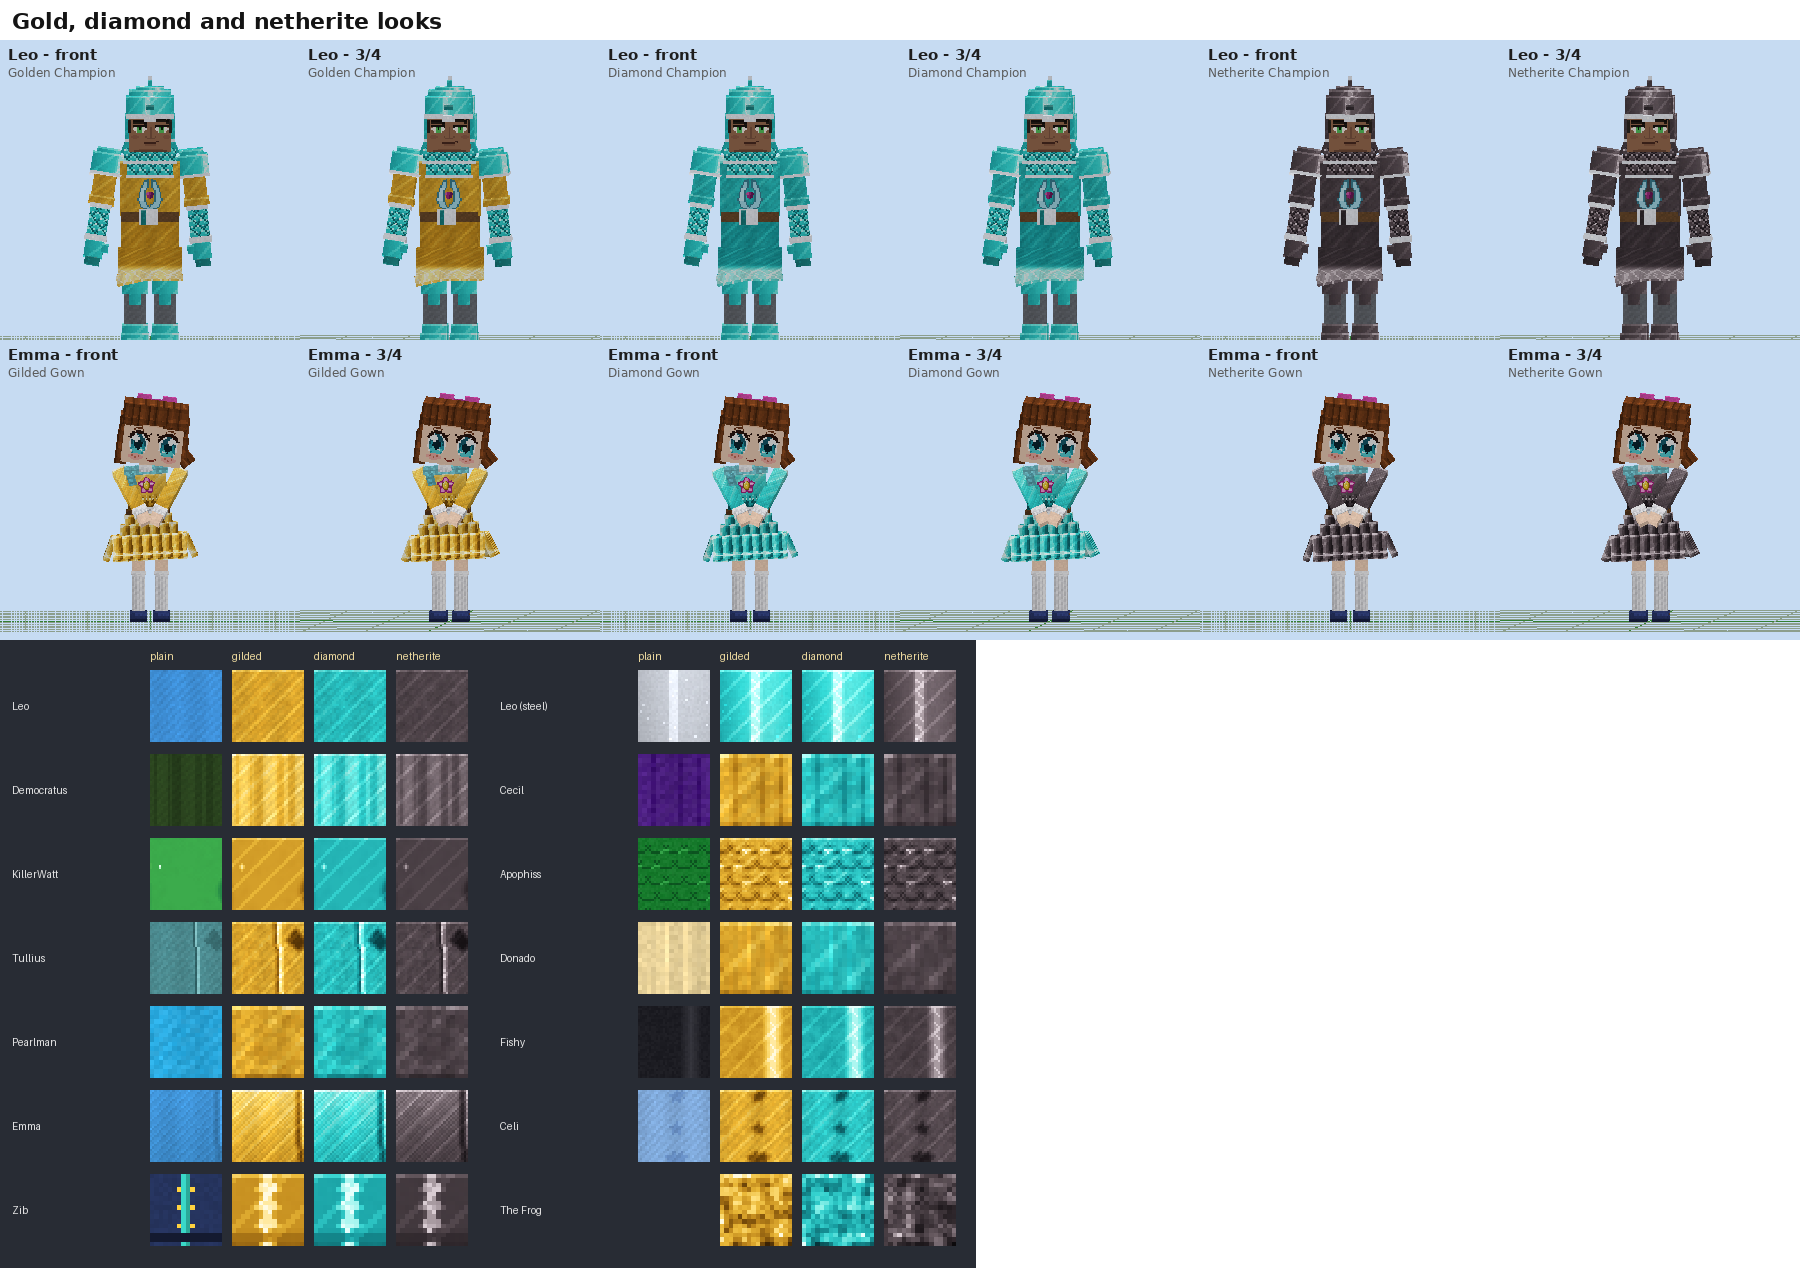
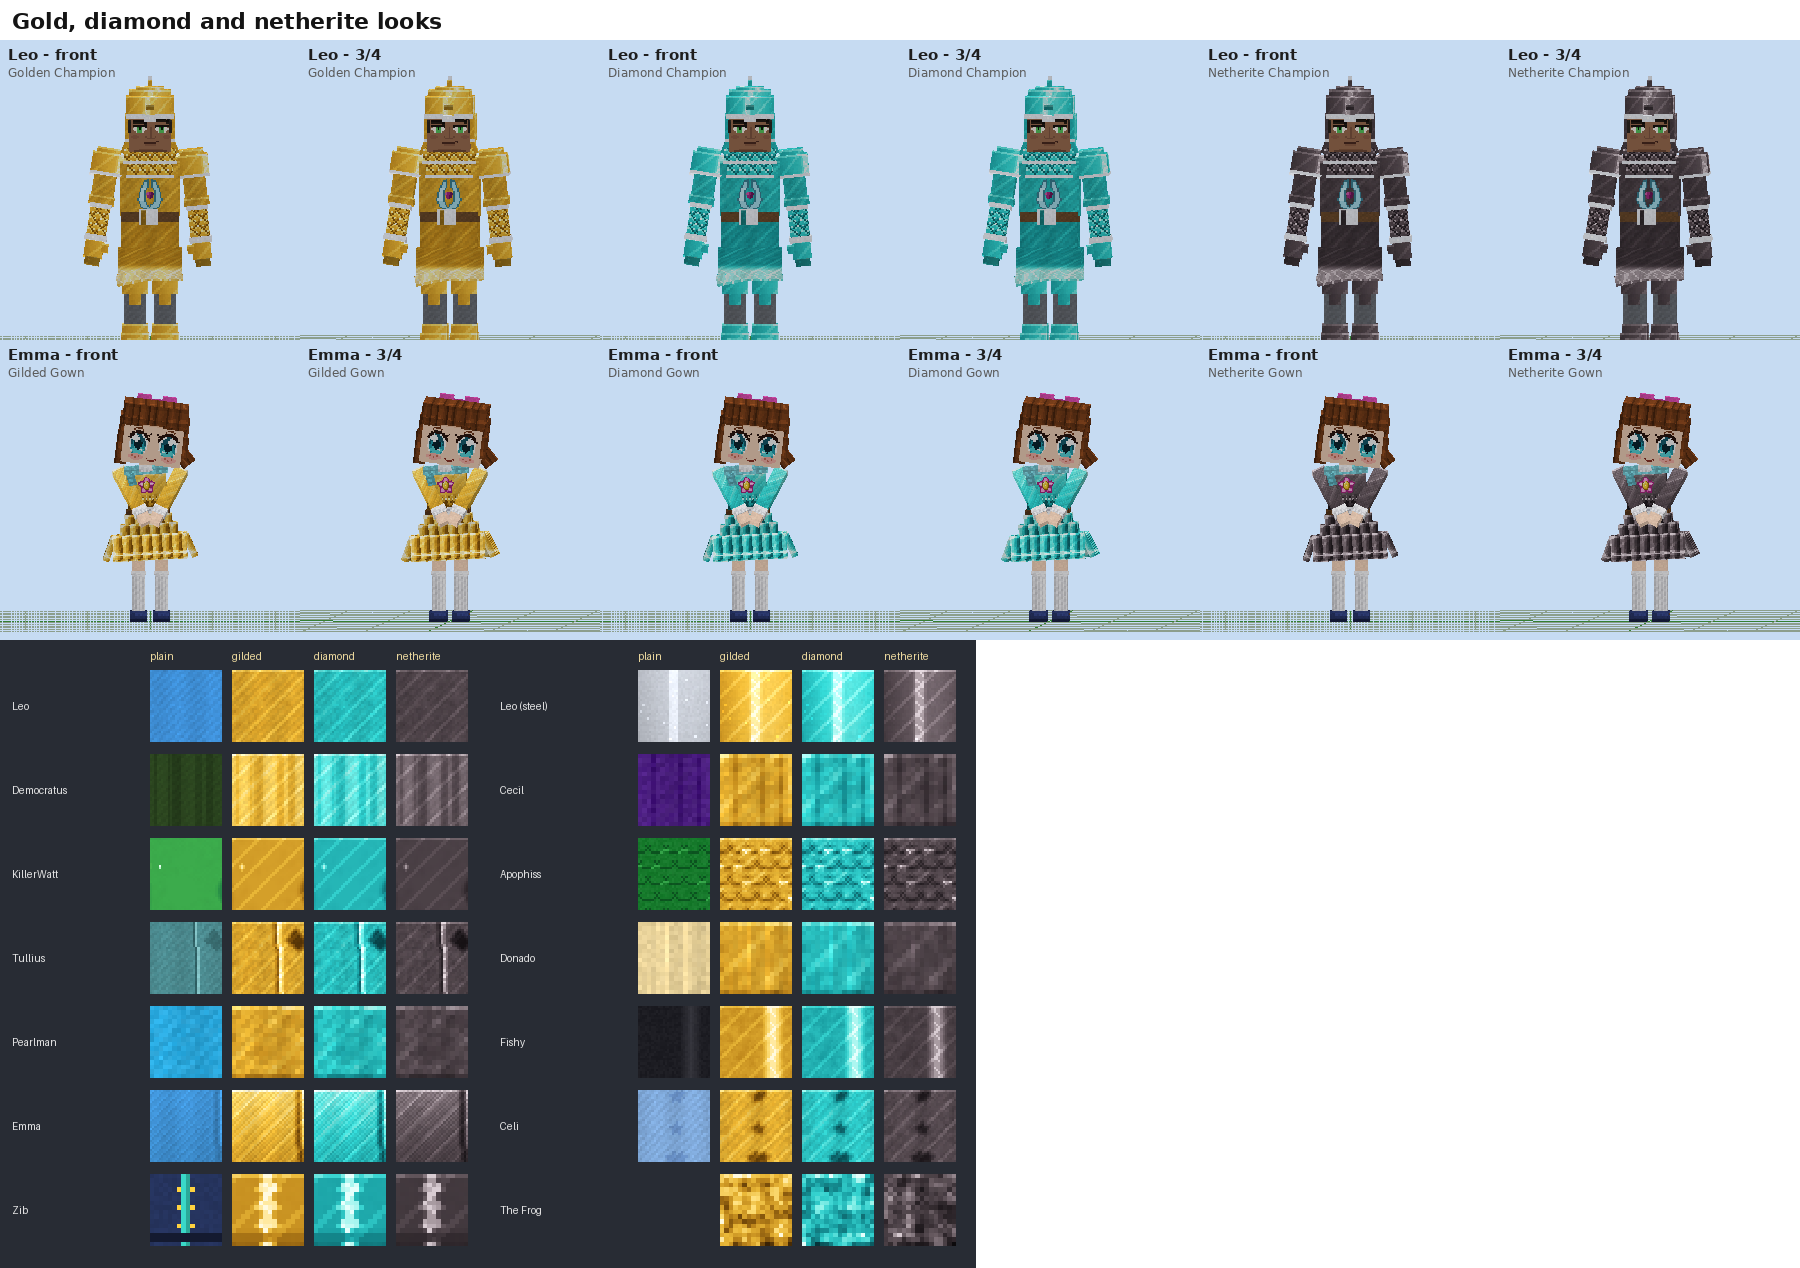
Leo's Golden Champion: gold armour and helm, no longer diamond
Claude-Session: https://claude.ai/code/session_01Hnh3JX9duCmZ3chfXvRUov

diff --git a/bm_build/gild.py b/bm_build/gild.py
@@ -10,7 +10,7 @@ from PIL import Image
 
 RAMP = [(0.00, (0x3a, 0x22, 0x04)), (0.22, (0x78, 0x4c, 0x0a)), (0.45, (0xc0, 0x88, 0x1c)), (0.66, (0xea, 0xb8, 0x38)),
         (0.84, (0xff, 0xe0, 0x7a)), (1.00, (0xff, 0xfa, 0xe0))]
-# (2.79b: a diamond ramp, for steel that goes with a gilded look - Leo's helm and armour beside his gold tabard)
+# (2.79b: a diamond ramp - Leo's steel with his Diamond Champion; 2.80c: and the diamond looks themselves)
 DIAMOND = [(0.00, (0x06, 0x2c, 0x32)), (0.22, (0x0c, 0x5c, 0x62)), (0.45, (0x18, 0x9c, 0xa0)), (0.66, (0x34, 0xd2, 0xcf)),
            (0.84, (0x8a, 0xf2, 0xea)), (1.00, (0xe6, 0xff, 0xfc))]
 # (2.80c: netherite - dark, faintly purple-brown steel; the polish still catches its edges)
@@ -90,8 +90,8 @@ _ITEM = {'emma': 'cos_dress_{}', 'celi': 'cos_celi_{}', 'zib': 'cos_zib_{}'}
 _K2 = {'emma': 7, 'celi': 6, 'zib': 4, 'don': 6}
 DIAMOND_LOOKS = {w: (_K2.get(w, 5), _ITEM.get(w, f'cos_{w}_{{}}').format(_K2.get(w, 5)), sc) for w, (k, i, sc) in GILDED.items()}
 NETHERITE_LOOKS = {w: (_K2.get(w, 5) + 1, _ITEM.get(w, f'cos_{w}_{{}}').format(_K2.get(w, 5) + 1), sc) for w, (k, i, sc) in GILDED.items()}
-# each metal: its ramp, the steel beside it (Leo's helm), its colour, its word, its lore, its price (Gutter Trophies), Wilfrey's armour
-TIERS = {'gold': {'ramp': RAMP, 'steel': DIAMOND, 'col': GOLD, 'word': 'Gilded', 'trophies': 20, 'armour': 'gold',
+# each metal: its ramp, the steel beside it (Leo's helm and armour - 2.80c: gold with the gold, no longer diamond), its colour, its word, its lore, its price (Gutter Trophies), Wilfrey's armour
+TIERS = {'gold': {'ramp': RAMP, 'steel': RAMP, 'col': GOLD, 'word': 'Gilded', 'trophies': 20, 'armour': 'gold',
                   'lore': 'Gilded: polished gold - and it sparkles.', 'looks': GILDED},
          'diamond': {'ramp': DIAMOND, 'steel': DIAMOND, 'col': '#5ee8e0', 'word': 'Diamond', 'trophies': 32, 'armour': 'diamond',
                      'lore': 'Diamond: cut and polished - and it glitters.', 'looks': DIAMOND_LOOKS},

diff --git a/bm_build/phase99.py b/bm_build/phase99.py
@@ -45,7 +45,7 @@ NEW = {'leo': ('Leo', '#5ab8e0', 'Tabard', {1: ('Crimson Crusader', ('#2a0408', 
                                                   3: ('Verdant Bend', ('#06260a', '#2a8a30', '#90e090')), 4: ('Gilded Sun', ('#3a2806', '#e0b030', '#fff0a0')), 5: ('Diamond Sun', ('#06323a', '#1a9aa0', '#a8fff4')), 6: ('Netherite Sun', ('#141014', '#4a4046', '#9a8c94'))})}
 HIDDEN = 4
 RECOLOUR = {'leo': ('le_tunic', 'le_skirt', 'le_cape'), 'demo': ('dm_hood', 'dm_hood_dk', 'dm_cape'), 'cecil': ('cec_robe', 'cec_robe_dark')}
-# (2.79b: with Leo's Golden Champion his helm and armour turn diamond - polished cyan beside the gold tabard - head included)
+# (2.79b: with Leo's metal looks his helm and armour turn to match - head included; 2.80c: gold with the Golden Champion, no longer diamond)
 ARMOUR = {'leo': ('le_steel', 'le_steel_dk', 'le_mail')}
 DYE = {'Crimson Crusader': 'red', 'Royal Purple': 'purple', 'Greenwood': 'green', 'Golden Champion': 'yellow', 'Crimson Reaper': 'red', 'Ashen Shroud': 'gray',
        'Royal Violet': 'purple', 'Gilded Storm': 'yellow', 'Crimson': 'red', 'Midnight': 'blue', 'Bone': 'white', 'Gilded': 'yellow', 'Neon': 'magenta',

diff --git a/bm_build/README.md b/bm_build/README.md
@@ -28,7 +28,7 @@ Without the resource pack, the tokens, keys, hats and rats show as missing textu
   - Emma's **Diamond Gown** and **Netherite Gown**, Celi's **Diamond** and **Netherite** outfits, Zib's **Diamond Ace** and **Netherite Ace**, Cecil's **Diamond** and **Netherite** robes, KillerWatt's **Diamond Thunder** and **Netherite Thunder**, Leo's **Diamond Champion** and **Netherite Champion**, Democratus' **Diamond Storm** and **Netherite Storm**, Apophiss's **Diamond Coil** and **Netherite Coil**, Tullius's **Diamond Captain** and **Netherite Captain**, the Frog's **Diamond Prince** and **Netherite Prince**, Donado's **Diamond** and **Netherite** coats, Pearlman's **Diamond** and **Netherite** bow ties, Wilfrey's **Diamond Sun** and **Netherite Sun**, and Fishy's **Diamond Topper** and **Netherite Topper**.
 - **They're the Tailor's dearest: diamond 4,096 coins (32 Gutter Trophies), netherite 6,144 coins (48).** The gilded looks stay at 2,560. Their lore says what each one is, and they glint.
 - **Each metal sparkles in its own way.** Gold gives gold motes and glints, diamond gives cyan glitter and starlight, and netherite gives embers and drifting smoke. (As with gold, Cecil and KillerWatt don't sparkle while a gem's element is showing on them.)
-- **Leo's helm and armour turn to match:** diamond with the Diamond Champion, netherite with the Netherite Champion. (The Golden Champion keeps its diamond steel.)
+- **Leo's helm and armour turn to match:** gold with the Golden Champion (no longer diamond, as it was since 2.79b), diamond with the Diamond Champion, netherite with the Netherite Champion.
 - **Wilfrey's armour turns diamond or netherite** with the Diamond Sun or the Netherite Sun, and he carries a matching shining shield: cyan with a light-blue sun, or black with a grey one. As with the Gilded Sun, only the armour's look changes.
 - Like every outfit, each one is yours for good once used or bought: pick it in the follower's wardrobe (sneak + use their item), and they keep it across recalls.
 
